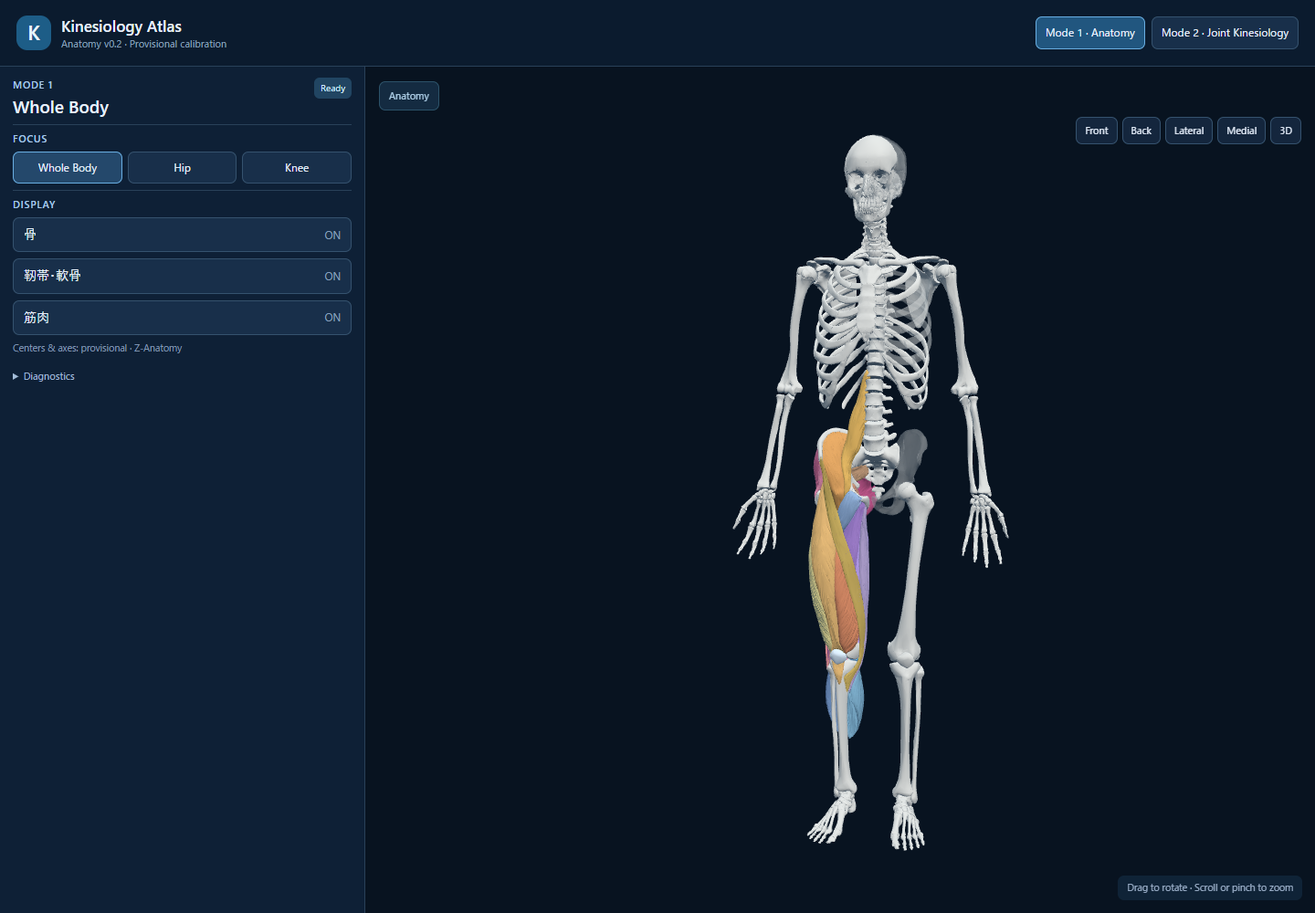
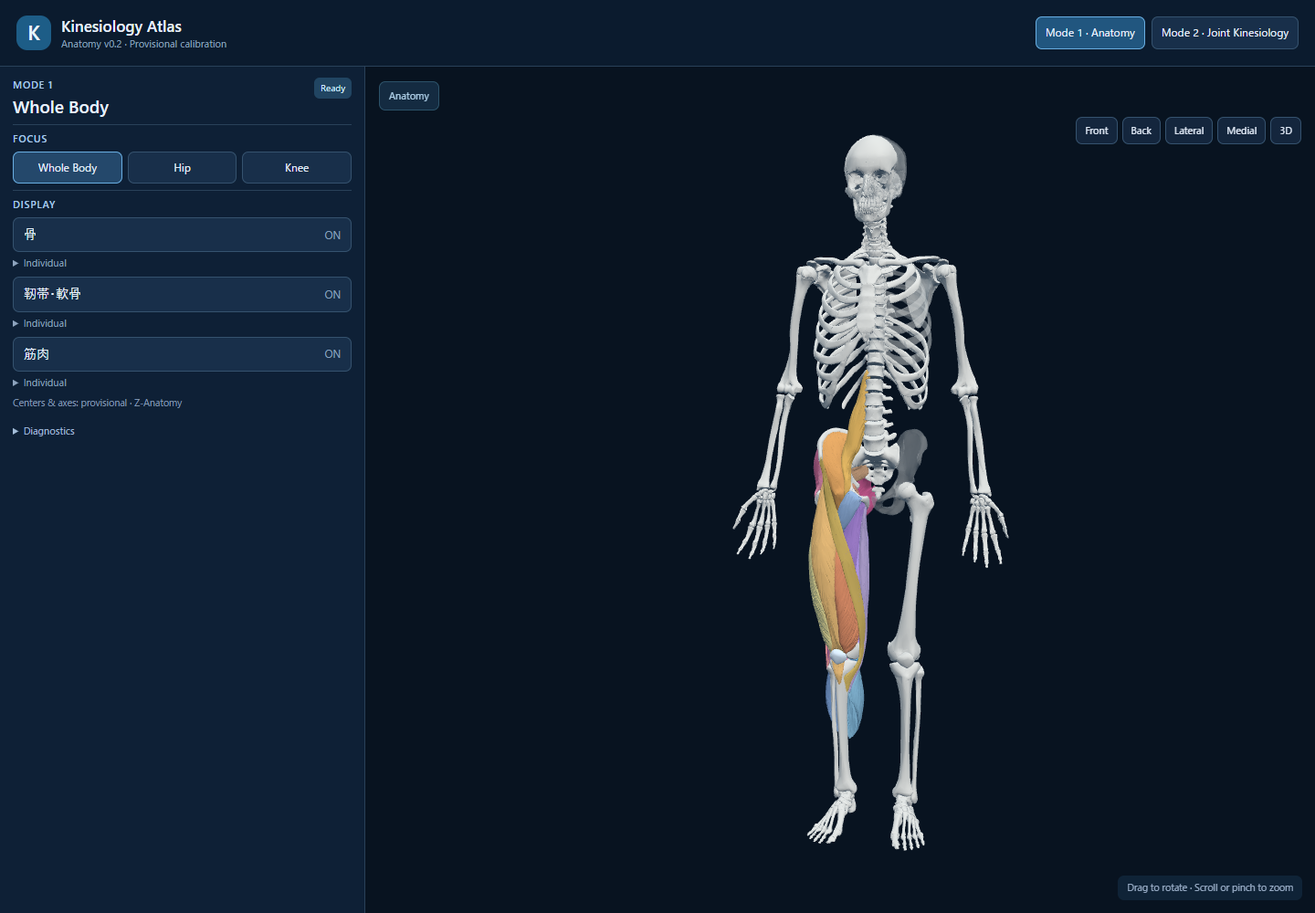
Add collapsed individual controls and schematic muscle following for knee motion

Changed region(s): [[0.0, 0.279, 0.125, 0.496], [0.2188, 0.279, 0.2812, 0.372]]

diff --git a/src/main.js b/src/main.js
@@ -6,6 +6,7 @@ import {KNEE} from '../config/knee.js';
 import {teachingLigamentTendency} from './kinematics.js';
 import {muscleColors,hipLigamentColors} from './palette.js';
 import {kneePose} from './joint-motion.js';
+import {TissueFollower} from './tissue-follow.js';
 
 import {tissues,tissueByName,nextVisibility,relevant,focusStates,englishName,japaneseName,bulkGroup} from './anatomy.js';
 
@@ -28,8 +29,10 @@ let hipWorldPoint=null,kneeWorldPoint=null,kneeModelReady=false,sideSign=1,fullB
 let landmarkReview=null;
 const tissueStates=focusStates('body');
 const bulkStates={bone:'on',connective:'on',muscle:'on'};
+const bodyStates=new Map();
 const materialPalette={bone:0xe6e0d5,patella:0xe3ecf1,acl:0xec739b,pcl:0xb88add,mcl:0x53c9a3,lcl:0xf1b96b,meniscus:0x79b6df,muscle:0xc98283};
 const rig={hip:new THREE.Group(),knee:new THREE.Group(),patella:new THREE.Group()};
+const tissueFollower=new TissueFollower();
 scene.add(rig.hip);
 const axisGroup=new THREE.Group();scene.add(axisGroup);axisGroup.visible=false;
 function diagnostics(s){$('diagnostics').textContent=s}
@@ -62,17 +65,27 @@ function visibility(name,state){visibleStates.set(name,state);const mat=original
 function updateVisibility(){
  for(const name of registered.keys()){
   const kind=category.get(name);
-  const state=focus==='body'?bulkStates[bulkGroup(name,kind)]:kind==='bone'?'on':relevant(name,focus)?tissueStates.get(name)||'off':'off';
+  const state=focus==='body'?bodyStates.get(name)||'on':kind==='bone'?'on':relevant(name,focus)?tissueStates.get(name)||'off':'off';
   visibility(name,state);
  }
- for(const button of document.querySelectorAll('[data-bulk]')){const state=bulkStates[button.dataset.bulk];button.dataset.state=state;button.querySelector('small').textContent=state==='fade'?'Fade':state.toUpperCase();}
+ for(const button of document.querySelectorAll('[data-bulk]')){const group=button.dataset.bulk,states=new Set([...registered.keys()].filter(n=>bulkGroup(n,category.get(n))===group).map(n=>bodyStates.get(n)||'on'));const state=states.size>1?'mixed':[...states][0]||'on';bulkStates[group]=state;button.dataset.state=state;button.querySelector('small').textContent=state==='fade'?'Fade':state==='mixed'?'Mixed':state.toUpperCase();}
+ for(const row of document.querySelectorAll('[data-body-tissue]')){const state=bodyStates.get(row.dataset.bodyTissue)||'on';row.dataset.state=state;row.querySelector('small').textContent=state==='fade'?'Fade':state.toUpperCase();}
  syncTissueUI();
  if(activeSelection)highlightSelected(activeSelection);
 }
 function cycleTissue(name){tissueStates.set(name,nextVisibility(tissueStates.get(name)));updateVisibility();if(activeSelection)selectStructure(activeSelection,{showFloating:!$('floatingSelection').hidden});}
 function cycleBulk(group){bulkStates[group]=nextVisibility(bulkStates[group]);
+ for(const name of registered.keys())if(bulkGroup(name,category.get(name))===group)bodyStates.set(name,bulkStates[group]);
  for(const [name] of tissues)if(bulkGroup(name,category.get(name))===group)tissueStates.set(name,bulkStates[group]);
  updateVisibility();if(activeSelection)selectStructure(activeSelection,{showFloating:!$('floatingSelection').hidden});
+}
+function uiBodyLists(){for(const id of ['bodyBoneList','bodyConnectiveList','bodyMuscleList'])$(id).replaceChildren();
+ const containers={bone:'bodyBoneList',connective:'bodyConnectiveList',muscle:'bodyMuscleList'};
+ for(const [name,kind] of category){const row=document.createElement('button');row.type='button';row.dataset.bodyTissue=name;
+  const title=document.createElement('span');title.textContent=(japaneseName(name)||englishName(name))+(kind==='bone'&&/\.[rl]$/.test(name)?(name.endsWith('.l')?'（左）':'（右）'):'');const state=document.createElement('small');row.append(title,state);
+  const color=muscleColors[name]||hipLigamentColors[name];if(color)row.style.setProperty('--tissue-color','#'+color.toString(16).padStart(6,'0'));
+  row.addEventListener('click',()=>{const value=nextVisibility(bodyStates.get(name)||'on');bodyStates.set(name,value);if(tissueByName.has(name))tissueStates.set(name,value);updateVisibility();if(activeSelection)selectStructure(activeSelection,{showFloating:!$('floatingSelection').hidden});});$(containers[bulkGroup(name,kind)]).append(row);
+ }
 }
 function syncTissueUI(){for(const row of document.querySelectorAll('[data-tissue]')){
  const name=row.dataset.tissue;row.hidden=!relevant(name,focus);row.dataset.state=tissueStates.get(name)||'off';
@@ -164,7 +177,7 @@ function frameFocus(f=focus){if(!modelLoaded)return;
 function setFocus(f){focus=f;activeSelection=null;$('selectedStructure').textContent='Click a structure';$('floatingSelection').hidden=true;
  for(const el of document.querySelectorAll('[data-focus]'))el.classList.toggle('selected',el.dataset.focus===f);
  for(const [name,state] of focusStates(f))tissueStates.set(name,state);
- if(f==='body'){Object.assign(bulkStates,{bone:'on',connective:'on',muscle:'on'});Object.assign(motionValues,{flex:90,rot:0,stress:0});setMotion('flex');}
+ if(f==='body'){bodyStates.clear();for(const name of registered.keys())bodyStates.set(name,'on');Object.assign(bulkStates,{bone:'on',connective:'on',muscle:'on'});document.querySelectorAll('[data-body-details]').forEach(el=>el.open=false);Object.assign(motionValues,{flex:90,rot:0,stress:0});setMotion('flex');}
  updateModeUI();updatePose();updateVisibility();
  // Focus is an intentional framing operation; frame the target pose rather than an intermediate tween.
  if(poseTarget){rig.hip.quaternion.copy(poseTarget.hip);rig.knee.quaternion.copy(poseTarget.knee);rig.patella.position.copy(poseTarget.patella);scene.updateMatrixWorld(true);}
@@ -248,7 +261,7 @@ async function loadOne(name){const errs=[];for(const base of BASES){try{
  throw Error(`${name}.glb — ${errs.join(' / ')}`)}
 async function afterLoad(){
  // Rebuild from pristine sources so manual retries cannot accumulate rotations or duplicate meshes.
- poseTarget=null;modelLoaded=false;kneeModelReady=false;
+ poseTarget=null;modelLoaded=false;kneeModelReady=false;tissueFollower.clear();
  for(const obj of registered.values())obj.removeFromParent();for(const root of liveRoots)root.removeFromParent();liveRoots.length=0;
  for(const m of originalMaterials.values())m.dispose();
  registered.clear();originalMaterials.clear();category.clear();meshInfo.clear();visibleStates.clear();skeletonBounds.clear();
@@ -256,7 +269,7 @@ async function afterLoad(){
  for(const [sys,source] of modelSources){const root=source.clone(true);root.traverse(o=>{if(o.isMesh)o.visible=false});scene.add(root);liveRoots.push(root);register(root,sys);}
  if(!registered.has('Femur.r')||!registered.has('Tibia.r'))throw Error('Femur.r / Tibia.r not found');
  flatten();assignMaterials();const allBones=[...registered.keys()].filter(n=>category.get(n)==='bone');fullBox=new THREE.Box3();for(const nm of allBones){const b=worldBox(nm);if(b)fullBox.union(b)}
- prepareRig();modelLoaded=true;
+ prepareRig();scene.updateMatrixWorld(true);tissueFollower.prepare({tissues,getMeshes,hipCenter:hipWorldPoint,kneeCenter:kneeWorldPoint});uiBodyLists();modelLoaded=true;
  for(const name of allBones){const root=registered.get(name);root.updateWorldMatrix(true,true);const box=new THREE.Box3();
   for(const mesh of getMeshes(name)){mesh.geometry.computeBoundingBox();const mb=mesh.geometry.boundingBox.clone().applyMatrix4(mesh.matrixWorld);box.union(mb);}
   const inv=root.matrixWorld.clone().invert();const corners=[];for(const x of [box.min.x,box.max.x])for(const y of [box.min.y,box.max.y])for(const z of [box.min.z,box.max.z])corners.push(new THREE.Vector3(x,y,z).applyMatrix4(inv));skeletonBounds.set(name,corners);
@@ -283,7 +296,7 @@ function tick(now=performance.now()){requestAnimationFrame(tick);const dt=Math.m
   // Follow the moving right knee without changing the user's viewing direction, zoom or pan offset.
   if(modelLoaded&&focus==='knee'){const delta=rig.knee.getWorldPosition(new THREE.Vector3()).sub(before);camera.position.add(delta);controls.target.add(delta);}
  }
- controls.update();scene.updateMatrixWorld(true);fadeLeftSkeleton();renderer.render(scene,camera);
+ tissueFollower.update(rig.hip.quaternion,rig.knee.quaternion,now);controls.update();scene.updateMatrixWorld(true);fadeLeftSkeleton();renderer.render(scene,camera);
 }tick();boot();
 // Read-only QA snapshot, opt in locally with ?qa; no remote controls.
-if(new URLSearchParams(location.search).has('qa'))window.atlasQA=()=>({mode,focus,bulkStates:{...bulkStates},landmarkReview,landmarkNDC:landmarkReview?new THREE.Vector3(...landmarkReview.center).sub(hipWorldPoint).applyQuaternion(rig.hip.quaternion).add(hipWorldPoint).project(camera).toArray():null,motion,motionValue,motionValues:{...motionValues},calibration:{status:KNEE.status,hipCenter:hipWorldPoint?.toArray(),kneeCenter:kneeWorldPoint?.toArray(),axes:{flex:[1,0,0],axial:[0,1,0],stress:[0,0,1]},sideSign},camera:camera.position.toArray(),target:controls.target.toArray(),states:Object.fromEntries(tissueStates),tissueMeshes:tissues.map(([n])=>({name:n,group:bulkGroup(n,category.get(n)),color:originalMaterials.get(n)?.color.getHex(),count:getMeshes(n).length,visible:getMeshes(n).every(m=>m.visible),opacity:originalMaterials.get(n)?.opacity})),focusNDC:(focus==='knee'?rig.knee.getWorldPosition(new THREE.Vector3()):hipWorldPoint?.clone())?.project(camera).toArray(),bones:[...category].filter(([,k])=>k==='bone').map(([n])=>({name:n,group:bulkGroup(n,category.get(n)),visible:getMeshes(n).every(m=>m.visible),opacity:originalMaterials.get(n).opacity})),registered:[...registered.keys()],hip:rig.hip.quaternion.toArray(),knee:rig.knee.quaternion.toArray()});
+if(new URLSearchParams(location.search).has('qa'))window.atlasQA=()=>({mode,focus,followers:tissueFollower.snapshot(),bodyStates:Object.fromEntries(bodyStates),bulkStates:{...bulkStates},landmarkReview,landmarkNDC:landmarkReview?new THREE.Vector3(...landmarkReview.center).sub(hipWorldPoint).applyQuaternion(rig.hip.quaternion).add(hipWorldPoint).project(camera).toArray():null,motion,motionValue,motionValues:{...motionValues},calibration:{status:KNEE.status,hipCenter:hipWorldPoint?.toArray(),kneeCenter:kneeWorldPoint?.toArray(),axes:{flex:[1,0,0],axial:[0,1,0],stress:[0,0,1]},sideSign},camera:camera.position.toArray(),target:controls.target.toArray(),states:Object.fromEntries(tissueStates),tissueMeshes:tissues.map(([n])=>({name:n,group:bulkGroup(n,category.get(n)),color:originalMaterials.get(n)?.color.getHex(),count:getMeshes(n).length,visible:getMeshes(n).every(m=>m.visible),opacity:originalMaterials.get(n)?.opacity})),focusNDC:(focus==='knee'?rig.knee.getWorldPosition(new THREE.Vector3()):hipWorldPoint?.clone())?.project(camera).toArray(),bones:[...category].filter(([,k])=>k==='bone').map(([n])=>({name:n,group:bulkGroup(n,category.get(n)),visible:getMeshes(n).every(m=>m.visible),opacity:originalMaterials.get(n).opacity})),registered:[...registered.keys()],hip:rig.hip.quaternion.toArray(),knee:rig.knee.quaternion.toArray()});

diff --git a/src/tissue-follow.js b/src/tissue-follow.js
@@ -1,0 +1,50 @@
+import {Vector3,Quaternion,Matrix4} from 'three';
+
+// Schematic surface-proximity binding, following the existing Hip approach.
+// It is a visual follower, not validated footprints, muscle length or strain.
+function tree(points,depth=0){if(!points.length)return null;const axis=depth%3;points.sort((a,b)=>a[axis]-b[axis]);const mid=points.length>>1;return {p:points[mid],axis,left:tree(points.slice(0,mid),depth+1),right:tree(points.slice(mid+1),depth+1)};}
+function distance2(node,p,best=Infinity){if(!node)return best;const d=p[node.axis]-node.p[node.axis],v=node.p;best=Math.min(best,(p[0]-v[0])**2+(p[1]-v[1])**2+(p[2]-v[2])**2);best=distance2(d<0?node.left:node.right,p,best);if(d*d<best)best=distance2(d<0?node.right:node.left,p,best);return best;}
+const smooth=x=>{const t=Math.max(0,Math.min(1,x));return t*t*(3-2*t);};
+export class TissueFollower{
+ constructor(){this.entries=[];this.version=0;this.hip=new Quaternion();this.knee=new Quaternion();this.lastUpdate=-Infinity;}
+ clear(){for(const e of this.entries)e.mesh.geometry.dispose();this.entries=[];this.version=0;this.hip.identity();this.knee.identity();this.lastUpdate=-Infinity;}
+ prepare({tissues,getMeshes,hipCenter,kneeCenter}){
+  this.h=hipCenter.clone();this.k=kneeCenter.clone();const v=new Vector3();
+  const samples=name=>{const points=[];for(const mesh of getMeshes(name)){mesh.updateWorldMatrix(true,false);const a=mesh.geometry.attributes.position,step=Math.max(1,Math.floor(a.count/2500));for(let i=0;i<a.count;i+=step){v.fromBufferAttribute(a,i).applyMatrix4(mesh.matrixWorld);points.push(v.toArray());}}if(!points.length)throw Error('Missing binding bone '+name);return tree(points);};
+  const pelvis=samples('Hip bone.r'),femur=samples('Femur.r'),tibia=samples('Tibia.r');
+  for(const [name,,kind,joints] of tissues){if(kind!=='muscle')continue;
+   for(const mesh of getMeshes(name)){
+    mesh.geometry=mesh.geometry.clone();mesh.updateWorldMatrix(true,false);
+    const a=mesh.geometry.attributes.position,source=new Float32Array(a.array),world=new Float64Array(a.count*3),weights=new Float32Array(a.count*2),matrix=mesh.matrixWorld.clone();
+    let min=Infinity,max=-Infinity;
+    for(let i=0;i<a.count;i++){v.fromBufferAttribute(a,i).applyMatrix4(matrix);world.set(v.toArray(),i*3);min=Math.min(min,v.y);max=Math.max(max,v.y);}
+    for(let i=0;i<a.count;i++){
+     const p=[world[3*i],world[3*i+1],world[3*i+2]],epsilon=1e-10;
+     const wp=joints==='knee'?0:1/(distance2(pelvis,p)+epsilon);
+     const wf=1/(distance2(femur,p)+epsilon),wt=joints==='hip'?0:1/(distance2(tibia,p)+epsilon),total=wp+wf+wt;
+     weights[2*i]=(wf+wt)/total;weights[2*i+1]=wt/total;
+     if(name==='Psoas major.r'){weights[2*i]=smooth(((max-p[1])/(max-min)-.34)/(.86-.34));weights[2*i+1]=0;}
+    }
+    this.entries.push({name,mesh,source,world,weights,inverse:new Matrix4().copy(matrix).invert(),version:-1,maxDisplacement:0});
+   }
+  }
+ }
+ update(hip,knee,now=performance.now()){
+  const changed=1-Math.abs(this.hip.dot(hip))>1e-12||1-Math.abs(this.knee.dot(knee))>1e-12;
+  if(changed){if(now-this.lastUpdate<33)return;this.lastUpdate=now;this.hip.copy(hip);this.knee.copy(knee);this.version++;}
+  const identity=new Quaternion(),hQ=new Quaternion(),kQ=new Quaternion(),v=new Vector3(),rest=new Vector3();
+  const atRest=hip.angleTo(identity)<1e-5&&knee.angleTo(identity)<1e-5;
+  for(const e of this.entries){if(!e.mesh.visible||e.version===this.version)continue;
+   const attr=e.mesh.geometry.attributes.position;e.maxDisplacement=0;
+   if(atRest)attr.array.set(e.source);
+   else for(let i=0;i<attr.count;i++){
+    rest.fromArray(e.world,i*3);v.copy(rest);
+    kQ.copy(identity).slerp(knee,e.weights[i*2+1]);v.sub(this.k).applyQuaternion(kQ).add(this.k);
+    hQ.copy(identity).slerp(hip,e.weights[i*2]);v.sub(this.h).applyQuaternion(hQ).add(this.h);
+    e.maxDisplacement=Math.max(e.maxDisplacement,v.distanceTo(rest));v.applyMatrix4(e.inverse);attr.setXYZ(i,v.x,v.y,v.z);
+   }
+   attr.needsUpdate=true;e.mesh.geometry.computeVertexNormals();e.mesh.geometry.computeBoundingSphere();e.version=this.version;
+  }
+ }
+ snapshot(){return this.entries.map(e=>({name:e.name,vertices:e.source.length/3,visible:e.mesh.visible,maxDisplacement:e.maxDisplacement}));}
+}

diff --git a/index.html b/index.html
@@ -12,7 +12,11 @@
   <div class="group"><label class="smallhead">膝関節運動 / Knee motion</label><div class="motionKinds"><button data-motion="flex" class="selected">屈伸 / Flexion–Extension</button><button data-motion="rot">内外旋 / Rotation</button><button data-motion="stress">内外反 / Varus–Valgus</button></div><div class="angleLabels"><span id="negativeLabel">伸展 / Extension 0°</span><strong id="angleReadout">90°</strong><span id="positiveLabel">屈曲 / Flexion 140°</span></div><input aria-label="Joint angle" type="range" id="motionSlider" min="0" max="140" step="1" value="90"><div class="inlineActions"><button id="resetPose">Reset pose</button><label class="check"><input type="checkbox" id="axisToggle">下腿軸 / Tibial axis</label></div></div>
   <details class="group"><summary class="smallhead">靭帯 / Ligaments · Illustrative tendency</summary><div class="ligStatus" id="ligamentStatus"></div></details>
  </div>
- <div id="bodyDisplay" class="group"><label class="smallhead">Display</label><div class="bulkList"><button data-bulk="bone"><span>骨</span><small>ON</small></button><button data-bulk="connective"><span>靭帯・軟骨</span><small>ON</small></button><button data-bulk="muscle"><span>筋肉</span><small>ON</small></button></div></div>
+ <div id="bodyDisplay" class="group"><label class="smallhead">Display</label><div class="bulkList">
+  <div><button data-bulk="bone"><span>骨</span><small>ON</small></button><details data-body-details="bone"><summary>Individual</summary><div class="tissueList" id="bodyBoneList"></div></details></div>
+  <div><button data-bulk="connective"><span>靭帯・軟骨</span><small>ON</small></button><details data-body-details="connective"><summary>Individual</summary><div class="tissueList" id="bodyConnectiveList"></div></details></div>
+  <div><button data-bulk="muscle"><span>筋肉</span><small>ON</small></button><details data-body-details="muscle"><summary>Individual</summary><div class="tissueList" id="bodyMuscleList"></div></details></div>
+ </div></div>
  <div class="group jointDisplay" hidden><label class="smallhead">筋 / Muscles · ON → Fade → OFF</label><div id="muscleList" class="tissueList"></div></div>
  <div class="group jointDisplay" hidden><label class="smallhead">靭帯・半月板 / Ligaments &amp; menisci</label><div id="ligamentList" class="tissueList"></div></div>
  <details class="group jointDisplay" hidden><summary class="smallhead">Selection</summary><div id="selectedStructure" class="selection">Click a structure</div></details>

diff --git a/tests/ui/motion.spec.js b/tests/ui/motion.spec.js
@@ -10,6 +10,8 @@ test('Knee motion directions, saved angles, mode continuity and compact panel',a
  await page.locator('[data-focus="knee"]').click();await page.locator('[data-mode="kinesiology"]').click();
  await expect.poll(async()=>Math.abs((await snap()).hip[0])).toBeGreaterThan(.706);
  const initial=await snap();writeFileSync('test-results/joint-calibration.json',JSON.stringify(initial.calibration,null,2));writeFileSync('test-results/joint-landmark-review.json',JSON.stringify(initial.landmarkReview,null,2));
+ expect(initial.followers.length).toBeGreaterThanOrEqual(28);
+ await expect.poll(async()=>Math.max(...(await snap()).followers.filter(m=>m.name==='Rectus femoris muscle.r').map(m=>m.maxDisplacement))).toBeGreaterThan(.1);
  const input=async value=>{await page.locator('#motionSlider').evaluate((el,v)=>{el.value=v;el.dispatchEvent(new Event('input',{bubbles:true}));},String(value));};
  await input(65);await expect(page.locator('#angleReadout')).toHaveText('65°');
  await page.locator('[data-motion="rot"]').click();await input(20);await expect(page.locator('#angleReadout')).toContainText('External 20°');
@@ -23,6 +25,9 @@ test('Knee motion directions, saved angles, mode continuity and compact panel',a
  const end=await snap();expect(end.bones.every(b=>b.visible)).toBeTruthy();expect(end.states).toEqual(initial.states);
  await page.setViewportSize({width:1280,height:800});
  await page.screenshot({path:'test-results/knee-motion-compact.png'});
+ await page.locator('[data-mode="anatomy"]').click();
+ await expect.poll(async()=>Math.max(...(await snap()).followers.filter(m=>m.visible).map(m=>m.maxDisplacement))).toBe(0);
+ await page.locator('[data-mode="kinesiology"]').click();await expect.poll(async()=>Math.abs((await snap()).hip[0])).toBeGreaterThan(.706);
  const panel=await page.locator('#sidebar').evaluate(el=>({overflow:el.scrollHeight-el.clientHeight,sections:[...el.children].map(c=>({label:c.textContent.slice(0,35),height:c.getBoundingClientRect().height}))}));
  writeFileSync('test-results/panel-metrics.json',JSON.stringify(panel,null,2));expect(panel.overflow).toBeLessThanOrEqual(1);
  // Review artifacts only: show the existing center candidate at viewport center.

diff --git a/tests/ui/bulk.spec.js b/tests/ui/bulk.spec.js
@@ -7,6 +7,13 @@ test('Whole Body has only three bulk controls; knee contains no unrelated ligame
  await page.goto('http://127.0.0.1:8080/?localModels&qa');await expect(page.locator('#modelStatus')).toHaveText('Ready');
  const snap=()=>page.evaluate(()=>window.atlasQA());const initial=await snap();
  await expect(page.locator('[data-bulk]')).toHaveCount(3);await expect(page.locator('#muscleList')).toBeHidden();await expect(page.locator('#ligamentList')).toBeHidden();
+ await expect(page.locator('[data-body-details][open]')).toHaveCount(0);
+ const detail=page.locator('[data-body-details="muscle"]');await detail.locator('summary').click();
+ const rectus=page.locator('[data-body-tissue="Rectus femoris muscle.r"]');await expect(rectus).toBeVisible();await rectus.click();
+ await expect(page.locator('[data-bulk="muscle"] small')).toHaveText('Mixed');expect((await snap()).tissueMeshes.find(m=>m.name==='Rectus femoris muscle.r').opacity).toBe(.3);
+ await page.locator('[data-mode="kinesiology"]').click();await expect(detail).toHaveAttribute('open','');await expect(rectus).toHaveAttribute('data-state','fade');await page.locator('[data-mode="anatomy"]').click();
+ await page.locator('[data-bulk="muscle"]').click();await expect(page.locator('[data-bulk="muscle"] small')).toHaveText('ON');await expect(rectus).toHaveAttribute('data-state','on');
+ await page.screenshot({path:'test-results/whole-body-accordion.png'});await detail.locator('summary').click();
  const canvas=await page.locator('canvas').boundingBox();let picked=false;
  for(const y of [.5,.6,.7]){if(picked)break;for(const x of [.5,.47,.53]){await page.mouse.click(canvas.x+canvas.width*x,canvas.y+canvas.height*y);if(await page.locator('#floatingSelection button').isVisible()){picked=true;break;}}}
  expect(picked).toBeTruthy();await expect(page.locator('#floatingSelection button')).toHaveText('All · ON');await page.locator('#floatingSelection button').click();

diff --git a/src/style.css b/src/style.css
@@ -11,6 +11,7 @@
 .group .selection{min-height:32px;padding:6px}.ligStatus .ligItem{padding:4px 6px}
 @media(pointer:coarse){.tissueList button{min-height:36px}}
 .bulkList{display:grid;gap:7px}.bulkList button{display:flex;justify-content:space-between;align-items:center;min-height:36px}.bulkList small{color:var(--muted)}.bulkList button[data-state=off]{opacity:.55}
+.bulkList>div>button{width:100%}.bulkList details{margin:4px 0 0}.bulkList summary{font-size:11px;color:var(--muted);cursor:pointer}.bulkList .tissueList{margin-top:6px}.bulkList .tissueList button{min-height:27px}
 @media(min-width:741px) and (max-height:850px){
  .sidebar{padding:8px 12px}.sectionhead h1{font-size:17px;margin:3px 0 5px}.eyebrow{font-size:10px}
  .group{padding:5px 0}.group .smallhead{margin-bottom:4px}.choicegrid button,.motionKinds button{padding:5px 3px}

diff --git a/docs/ARCHITECTURE.md b/docs/ARCHITECTURE.md
@@ -16,9 +16,11 @@
 
 関節Focusでは組織単位の `tissueStates` が左行・選択欄・フローティング操作の状態源です。関節Focusに骨の表示トグルは置きません。投影した左骨格の境界箱が、右骨格に重なり、かつ手前なら30%不透明にします。境界箱による保守的な推定で、ピクセル単位の遮蔽判定ではありません。
 
-追補: Whole Bodyはユーザー指定により `bulkStates` の骨／靭帯・軟骨／筋肉の3一括操作だけを表示します。個別行は隠し、3Dフロートからの操作も一括に連動（Allを明示）。骨格GLB中の軟骨名を持つ構造も靭帯・軟骨グループに含めます。対象範囲は現在登録している構造です。OFFは表示だけの変更で、メッシュをシーンから削除しません。
+追補: Whole Bodyはユーザー指定により `bulkStates` の骨／靭帯・軟骨／筋肉の3一括操作を基本にします。個別行は初期状態で閉じたアコーディオン内に置き、3Dフロートからの操作も一括に連動（Allを明示）。骨格GLB中の軟骨名を持つ構造も靭帯・軟骨グループに含めます。対象範囲は現在登録している構造です。OFFは表示だけの変更で、メッシュをシーンから削除しません。
 
-Hip/Knee Focusでは全身骨格をONに戻し、当該関節に関連する組織だけを個別操作します。無関係な靭帯は行・3DともOFFで、描画処理でも関連性を確認します。Mode切替は一括状態を維持。Whole Bodyを押すホーム操作でのみ一括状態をONに初期化します。
+Whole Bodyの個別状態は `bodyStates`。3一括操作の下の閉じたアコーディオンを開いた場合だけ個別行を表示します。一括状態は個別状態から集約し、不一致はMixed。一括操作はMixedからONに戻せます。展開状態・個別状態はMode変更で維持します。
+
+Hip/Knee Focusでは全身骨格をONに戻し、当該関節に関連する組織だけを個別操作します。無関係な靭帯は行・3DともOFFで、描画処理でも関連性を確認します。Mode切替は一括状態を維持。Whole Bodyを押すホーム操作でのみ個別状態をON・アコーディオンを閉じた状態に初期化します。
 
 子メッシュの自動生成nameは解剖学名として使わず、za_nameを持つ親を探します。複数プリミティブを含む筋の識別を壊さないためです。
 
@@ -32,6 +34,8 @@ Mode 1は解剖学的肢位。Mode 2 Kneeの屈伸・内外旋は股90°/膝90°
 
 膝の姿勢計算は `src/joint-motion.js`。各運動の角度を別々に記憶し、Mode/運動種類の変更ではリセットしません。内外反の符号・観察肢位・上限は数学的にテストしています。中心・軸の検証資料は `docs/JOINT_MOTION_REVIEW.md`。
 
-既存の模式運動を残した基盤で、正しい生体運動をFIXしたリリースではありません。筋はAnatomyの元形状に留まり、靭帯は剛体追従で伸縮せず、半月板は脛骨と剛体移動、膝蓋骨は小さな直線移動のみです。Hip FocusのMode 2は同一シーンで状態を保持しますが、旧Hipの完成済み運動操作を統合していません。
+既存の模式運動を発展させた開発版で、正しい生体運動をFIXしたリリースではありません。筋は `src/tissue-follow.js` が骨盤/大腿骨/脛骨の表面サンプルから距離重みを求め、膝→股の順に部分回転して追従させます。膝だけに関係する筋は股回転に全追従し、股に関係する筋の骨盤側は距離重みで保持。大腰筋は上部を固定。元GLBから複製したジオメトリだけを変形し、Anatomyでは元の頂点配列に復帰します。起始/停止、巻き付き、筋長・ひずみの計測は未実装の模式モデルです。
+
+靭帯は剛体追従で伸縮せず、半月板は脛骨と剛体移動、膝蓋骨は小さな直線移動のみです。Hip FocusのMode 2は同一シーンで状態を保持しますが、旧Hipの完成済み運動操作を統合していません。
 
 開発順序: Anatomy → 関節中心/軸検証FIX → カメラ最終FIX → 関節運動 → 靭帯動態。断面・二関節筋・CKCは保留。

diff --git a/README.md b/README.md
@@ -12,7 +12,7 @@ Node.jsを用意し、フォルダー内で `npm run serve` を実行して http
 - Focus = Whole Body / Hip / Knee。Whole Bodyは意図的なホーム操作で、全身の標準表示・肢位・カメラへ戻ります。選択中のModeは維持します。
 - Focus変更で関係する筋・靭帯をON、それ以外をOFFにします。両側の骨格は常時保持します。
 - 筋・靭帯はON → Fade（30%不透明）→ OFFの1クリック循環。3Dクリックのフローティング操作と左パネルが同期します。
-- Whole Bodyの左パネルは骨／靭帯・軟骨／筋肉の3一括操作のみ。Hip/Kneeでは関連する組織の個別操作に戻り、全身骨格をONへ復帰。Whole Bodyの3Dフロート操作もAllで同じグループを一括変更します。
+- Whole Bodyの左パネルは骨／靭帯・軟骨／筋肉の3一括操作が基本。その下のIndividualを開くと個別操作できます（初期状態は閉）。混在状態はMixed、一括クリックで全件ON。Hip/Kneeでは関連する組織だけを個別操作し、全身骨格をONへ復帰します。
 - 左骨格は右骨格を手前から隠す投影範囲で自動Fade。Lateral / Medialは右外側 / 右内側です。
 - Mode切替はFocus、表示状態、視線方向、ズーム、選択、共通UIを維持。膝の肢位変化中はカメラ中心も追従します。
 
@@ -24,4 +24,4 @@ Node.jsを用意し、フォルダー内で `npm run serve` を実行して http
 
 ## 今回の到達点
 
-Anatomyの表示・FocusとMode切替基盤を確認済み。Mode 2の既存膝運動は未校正の試作を維持しています。筋は静止形状で、曲がった肢位への変形は未実装です。関節中心・軸の検証FIX → カメラ最終FIX → 関節運動 → 靭帯動態の順で進めます。Hip運動の統合、断面、二関節筋、CKC reverse actionは保留です。
+Anatomyの表示・FocusとMode切替基盤を確認済み。Mode 2の膝運動と筋の模式追従を実装しています。関節中心・軸は未校正で、筋の追従も実測付着部や筋力・ひずみを再現するものではありません。関節中心・軸の検証FIX → カメラ最終FIX → 運動軌道 → 靭帯動態の順で精度を上げます。Hip運動の統合、断面、二関節筋専用機能、CKC reverse actionは保留です。

diff --git a/docs/RELEASE_V0.2.md b/docs/RELEASE_V0.2.md
@@ -4,6 +4,16 @@
 
 ## UI追補
 
+### 個別アコーディオンと膝運動時の筋追従
+
+- Whole Bodyの各一括ボタンの下にIndividualアコーディオンを追加。骨・靭帯/軟骨・筋ごとに初期状態は閉じ、展開した場合だけ日本語・2列の個別操作を表示。
+- 個別状態と3Dを同期。全件一致しないグループはMixedを表示し、一括ボタン1クリックで全件ONに復帰。Mode切替では開閉・個別状態を保持。Whole Bodyの明示ホーム操作では全件ON・閉じた状態に戻す。
+- 右膝の観察肢位に筋が追従する模式的な変形を追加。Hip参照版の骨表面との距離による重み付けの考え方を、骨盤・大腿骨・脛骨の2関節の回転へ拡張。筋ごとの既存色、ON/Fade/OFF、同一メッシュを保持。
+- 元のGLBを直接変形せず、複製した筋ジオメトリだけを更新。Anatomy復帰時は元の頂点配列を復元。非表示筋は更新を省き、再表示したときに現在肢位へ追従。変形更新は上限約30Hz。
+- これは観察用の模式追従であり、実測起始/停止、筋長・筋力、巻き付き、接触、ひずみを再現・保証するものではない。関節中心・軸や靭帯動態をFIX済みに変更していない。
+- 検証: 構文PASS、ロジック7/7 PASS、実GLB Edge UI 3/3 PASS。個別変更→Mixed→一括ON、開閉保持、筋の追従、元座標復帰、元ジオメトリの非改変、非表示後の再表示を確認。
+- [全身の展開時](screenshots/whole-body-accordion.png)、[膝運動の筋追従](screenshots/knee-motion-compact.png)。
+
 ### Whole Bodyの3一括操作
 
 - 全身の組織操作を骨／靭帯・軟骨／筋肉の3つに集約し、個別リスト・Selectionを非表示。ON→Fade→OFFの1クリック循環を維持。3Dから操作する場合もAll表示で同グループに一括適用します。

diff --git a/docs/JOINT_MOTION_REVIEW.md b/docs/JOINT_MOTION_REVIEW.md
@@ -47,12 +47,12 @@
 
 終末伸展の外旋連動は模式値9°のままです。一次研究は伸展に伴う連動回旋を示しますが、このアセットの角度や軌道を保証する根拠にはしていません。[Three-dimensional kinematics of the human knee with intracortical pin fixation (1997)](https://pubmed.ncbi.nlm.nih.gov/9345219/)
 
-中心・軸の解剖学的検証FIX → カメラ最終FIX → 運動軌道 → 靭帯動態の順序を維持します。筋の曲がった肢位への変形、靭帯の伸縮、半月板・膝蓋骨の正しい動態は未実装のままです。表示状態を維持するため、模式運動時にも表示中の筋は残りますが、静止座標に留まる制約があります。Hip運動UIの共通シーン統合も後続です。
+中心・軸の解剖学的検証FIX → カメラ最終FIX → 運動軌道 → 靭帯動態の順序を維持します。筋は骨表面距離による模式的な2関節追従に対応し、Anatomyでは元の頂点座標に復帰します。ただし実際の付着面・巻き付き・筋長・ひずみは未検証です。靭帯の伸縮、半月板・膝蓋骨の正しい動態は未実装です。Hip運動UIの共通シーン統合も後続です。
 
 ## 検証
 
 - `npm run check`: PASS。
-- `npm test`: 6/6 PASS。
-- `npm run test:ui`: 2/2 PASS。実GLB、Windows Edge。
+- `npm test`: 7/7 PASS。
+- `npm run test:ui`: 3/3 PASS。実GLB、Windows Edge。
 - 左パネルの通常状態: 1440×1000 Whole Body Anatomy、1280×800 Knee Joint Kinesiologyで縦スクロール超過0px。開いた詳細欄や小型端末ではスクロールが発生する場合があります。[計測値](panel-metrics.json)
 
